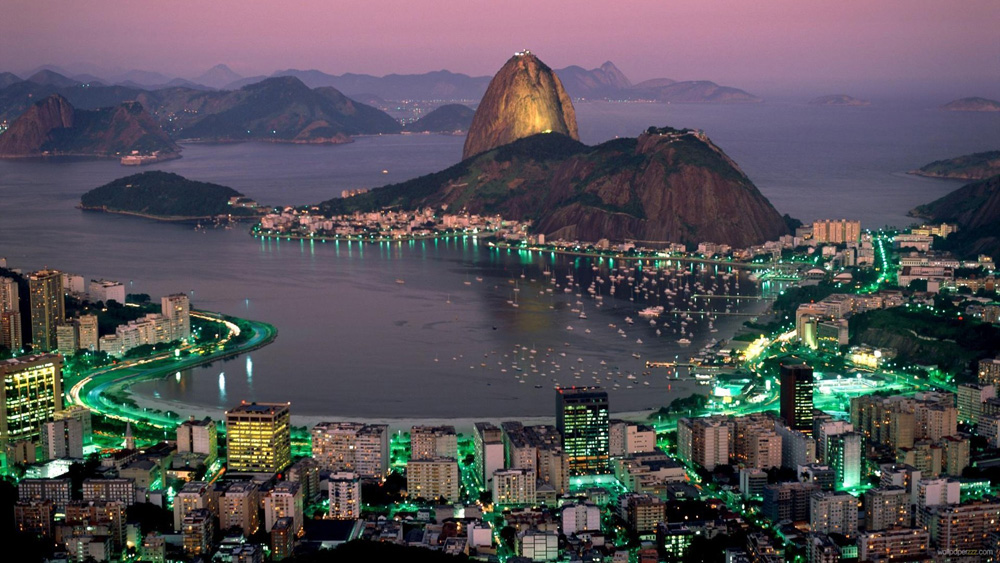
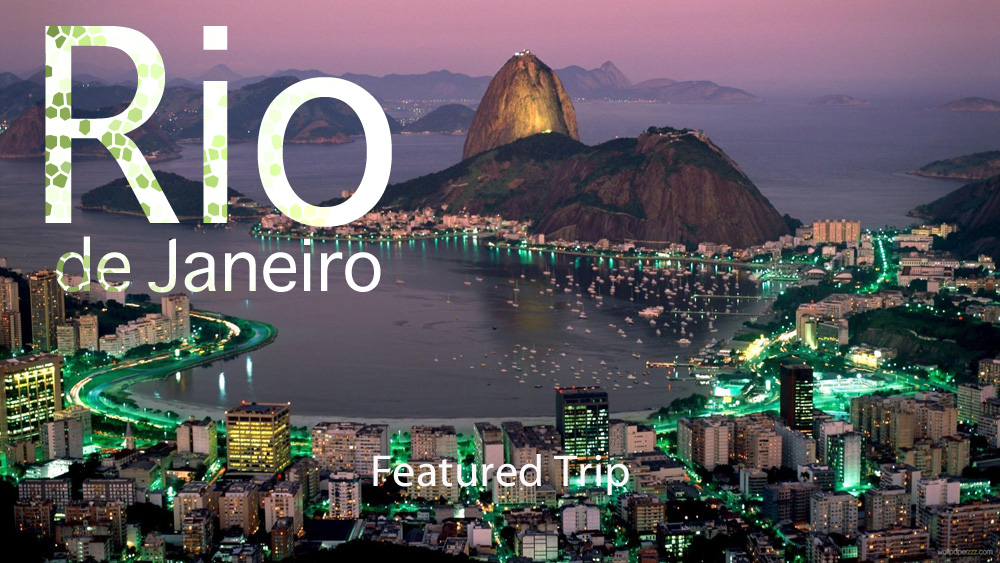
added sweet pics to jcar

diff --git a/routes/admin.js b/routes/admin.js
@@ -256,7 +256,7 @@ function createTrips(lucy, andrew, adrian) {
     date: "June 13, 2012",
     location: "Paris, France",
     description: "Backpacking in France!", 
-    image_large: "/images/Paris_Large.jpg",
+    image_large: "/images/Paris_Small.jpg",
     image_small: ["/images/paris_arc.jpg", "/images/paris_bridge.jpg", "/images/paris_locks.jpg", "/images/paris_cafe.jpg"]
   });
   t5.save(function(err, t5) {
@@ -272,8 +272,8 @@ function createTrips(lucy, andrew, adrian) {
     date: "July 20, 2013",
     location: "Paris, France",
     description: "There's no European destination quit like Paris, the City of Love.", 
-    image_large: "/images/Paris_Small.jpg",
-    image_small: ["/images/ParisPic1.jpg", "/images/ParisPic2.jpg", "/images/ParisPic3.jpg", "/images/ParisPic4.jpg"],
+    image_large: "/images/adrian.jpg",
+    image_small: ["/images/adrian.jpg", "/images/adrian.jpg", "/images/adrian.jpg", "/images/adrian.jpg"],
     featured: true
   });
   featParis.save(function(err, trip) {
@@ -287,7 +287,7 @@ function createTrips(lucy, andrew, adrian) {
     date: "June 10, 2011",
     location: "Republic of the Maldives",
     description: "The Maldives is the ultimate tropical destination.", 
-    image_large: "/images/Maldives_Small.jpg",
+    image_large: "/images/Maldives_Large.jpg",
     image_small: ["/images/MaldivesPic1.jpg", "/images/MaldivesPic2.jpg", "/images/MaldivesPic3.jpg", "/images/MaldivesPic4.jpg"],
     featured: true
   });
@@ -298,7 +298,7 @@ function createTrips(lucy, andrew, adrian) {
   }); 
   var featTahoe = new Trip({
     user: andrew._id,
-    title: "Lake Tahoe",
+    title: "Lake ",
     date: "December 21, 2012",
     location: "Lake Tahoe, California",
     description: "Come ride the slopes of the finest mountain range on the American West Coast", 
@@ -316,8 +316,8 @@ function createTrips(lucy, andrew, adrian) {
     title: "Giza",
     date: "May 1, 2012",
     location: "Giza, Egypt",
-    description: "Behold the legendary Egyptian pyramids on the unforgetable journey.", 
-    image_large: "/images/Pyramid_Small.jpg",
+    description: "Behold the legendary Egyptian pyramids on this unforgetable journey.", 
+    image_large: "/images/Pyramid_Large.jpg",
     image_small: ["/images/EgyptPic1.jpg", "/images/EgyptPic2.jpg", "/images/EgyptPic3.jpg", "/images/EgyptPic4.jpg"],
     featured: true
   });
@@ -332,7 +332,7 @@ function createTrips(lucy, andrew, adrian) {
     date: "March, 2012",
     location: "Rio de Janeiro, Brazil",
     description: "The ultimate South American Adventure.", 
-    image_large: "/images/Rio_Small.jpg",
+    image_large: "/images/Rio_Large.jpg",
     image_small: ["/images/RioPic1.jpg", "/images/RioPic2.jpg", "/images/RioPic3.jpg", "/images/RioPic4.jpg"],
     featured: true
   });
